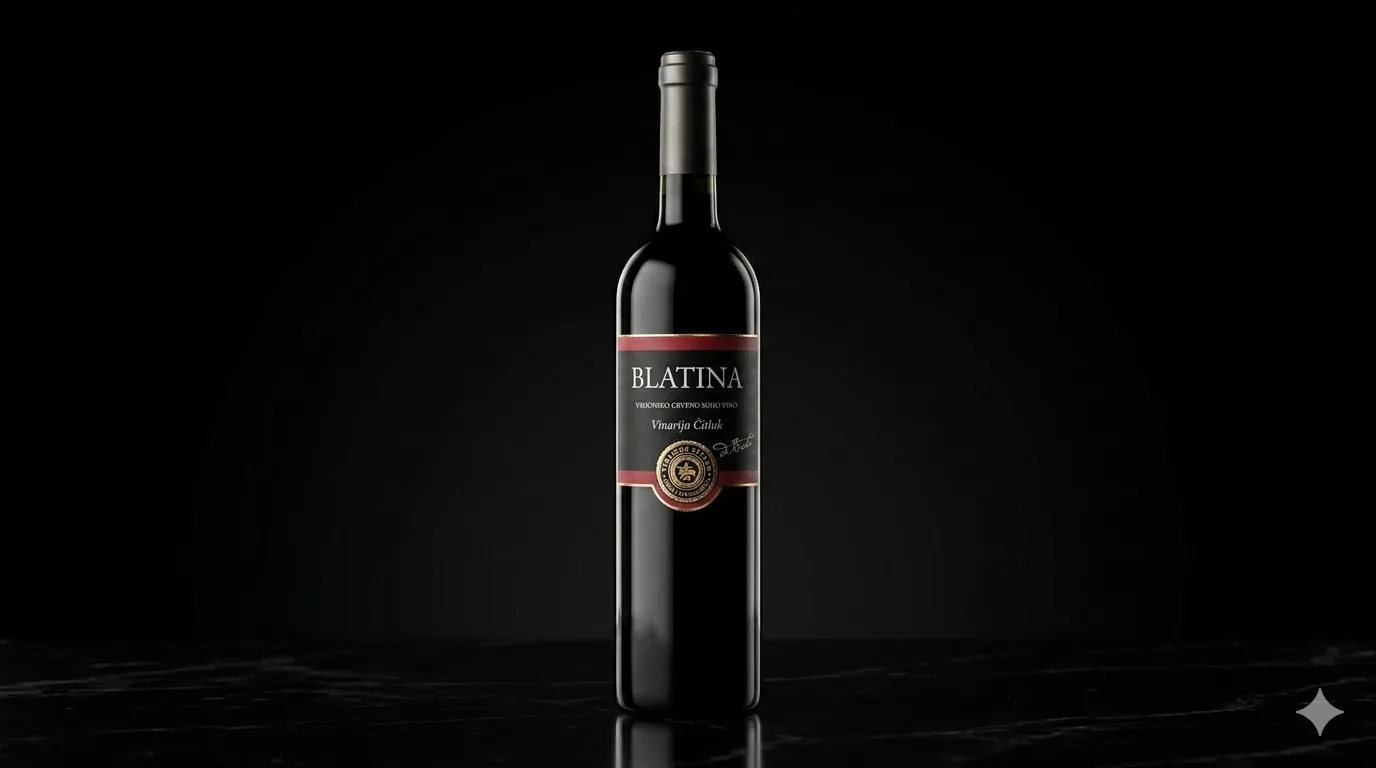
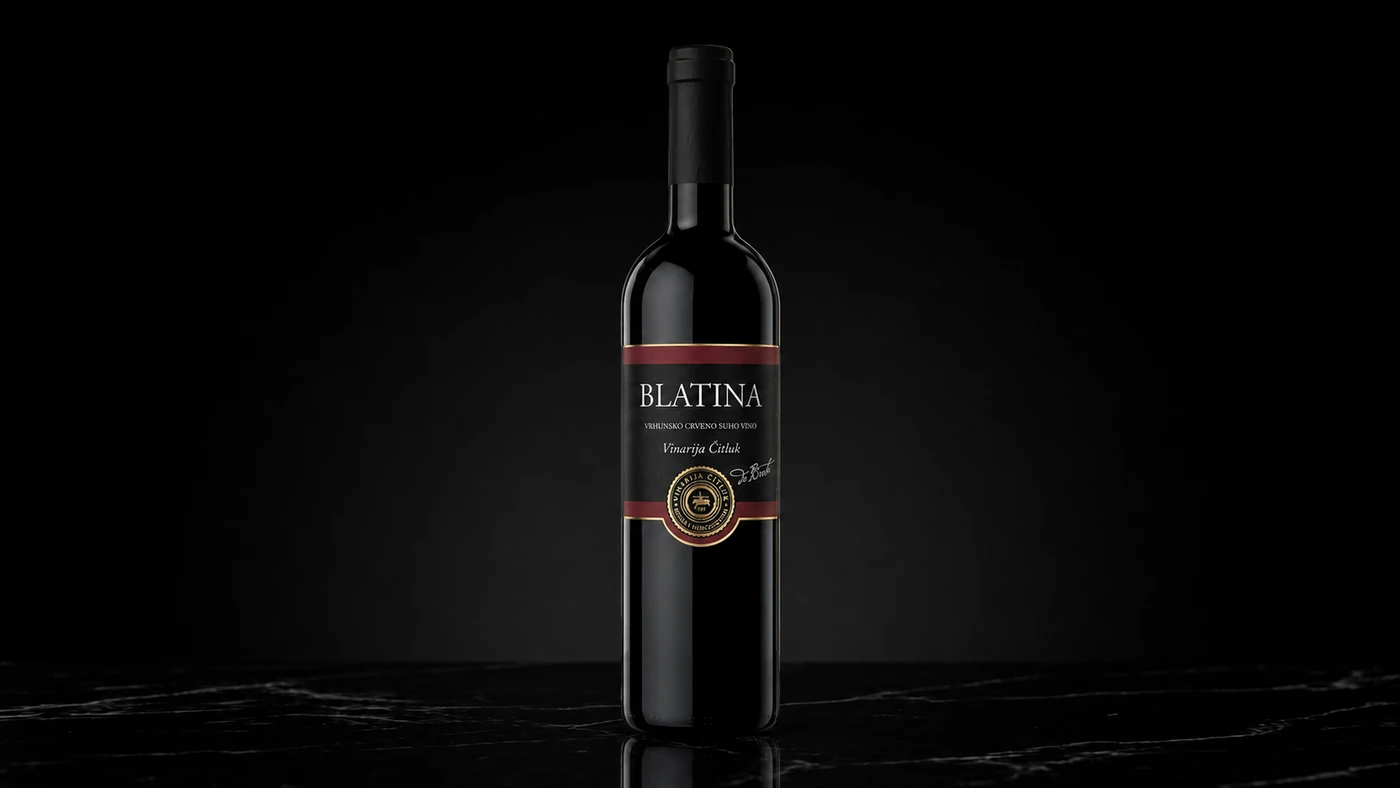
Swap in higher-resolution photographs of the three Čitluk wines
Žilavka Mostar, Hercegovačka Žilavka and Blatina were the last bottles
still on the original lower-resolution shots (1376x768). The replacements
come from the same studio setup as the rest of the catalogue (1672x941,
corners at 0.04-0.05 luminance), so they take the same treatment with no
per-image adjustment and sit beside the others without a visible
difference in exposure.

Matched to the files they replace by their labels, which name the product
exactly: "Žilavka Mostar", "Hercegovačka Žilavka", "Blatina". That keeps
the existing pairing intact — the 0.75L Žilavka on the Mostar bottle, the
1L on the Hercegovačka — since neither photograph shows a volume and the
catalogue is the only thing that knows which is which.

Filenames are unchanged, so nothing in the catalogue needed editing.

diff --git a/index.html b/index.html
@@ -537,6 +537,6 @@
   }
   </script>
 
-  <script src="script.js?v=94"></script>
+  <script src="script.js?v=95"></script>
 </body>
 </html>
